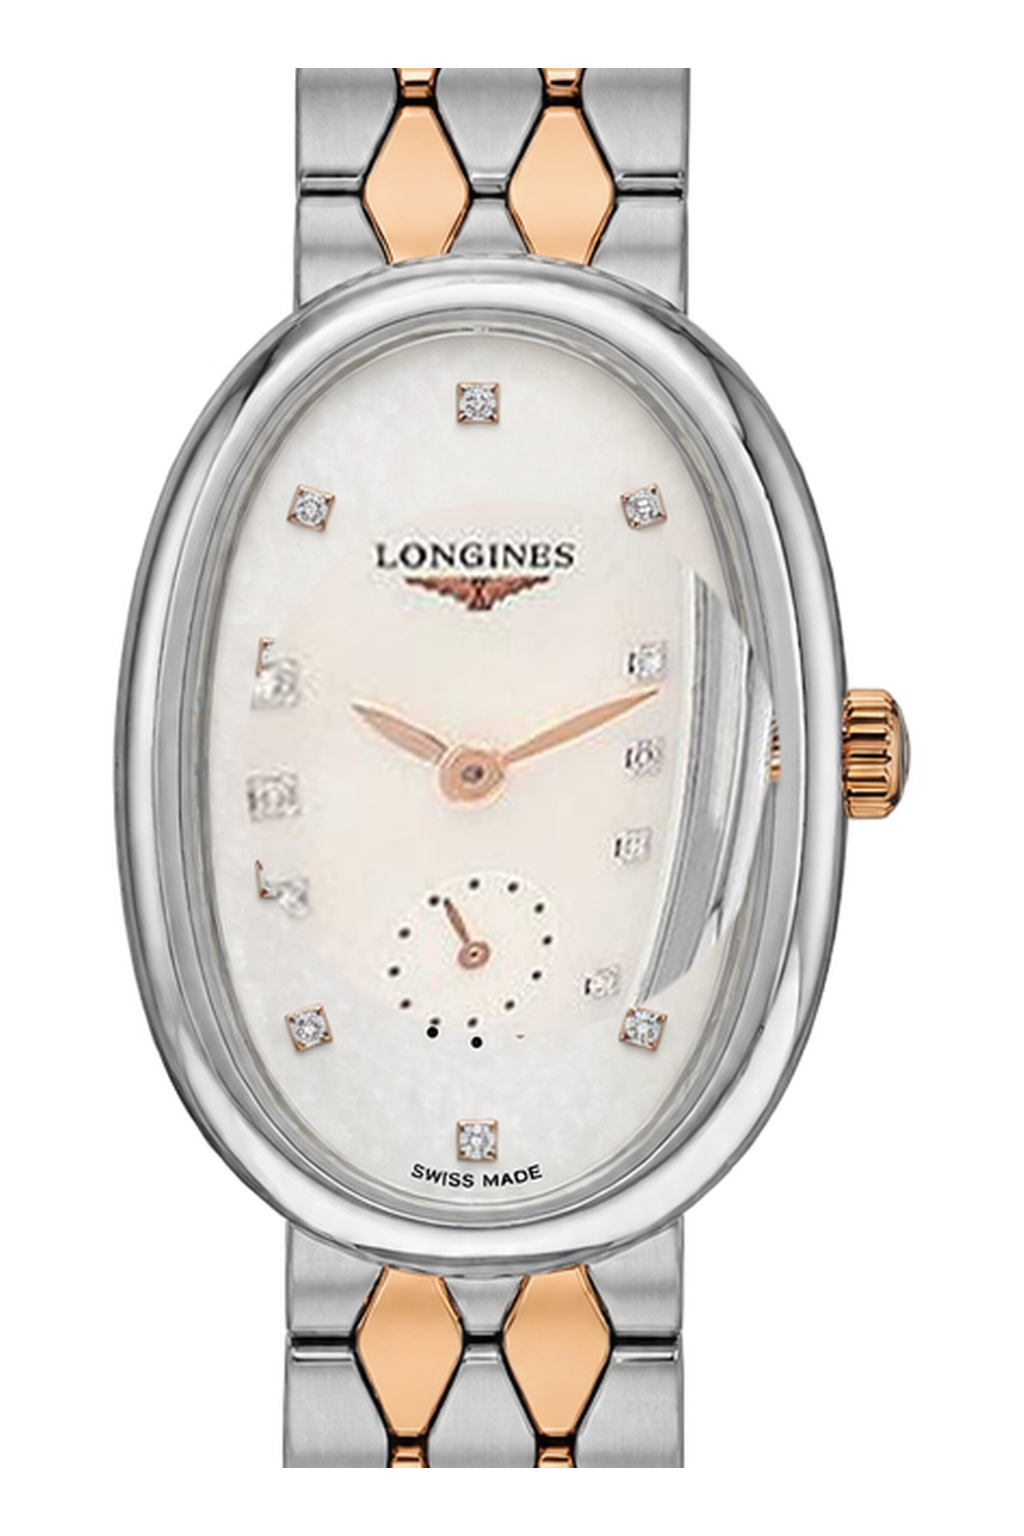
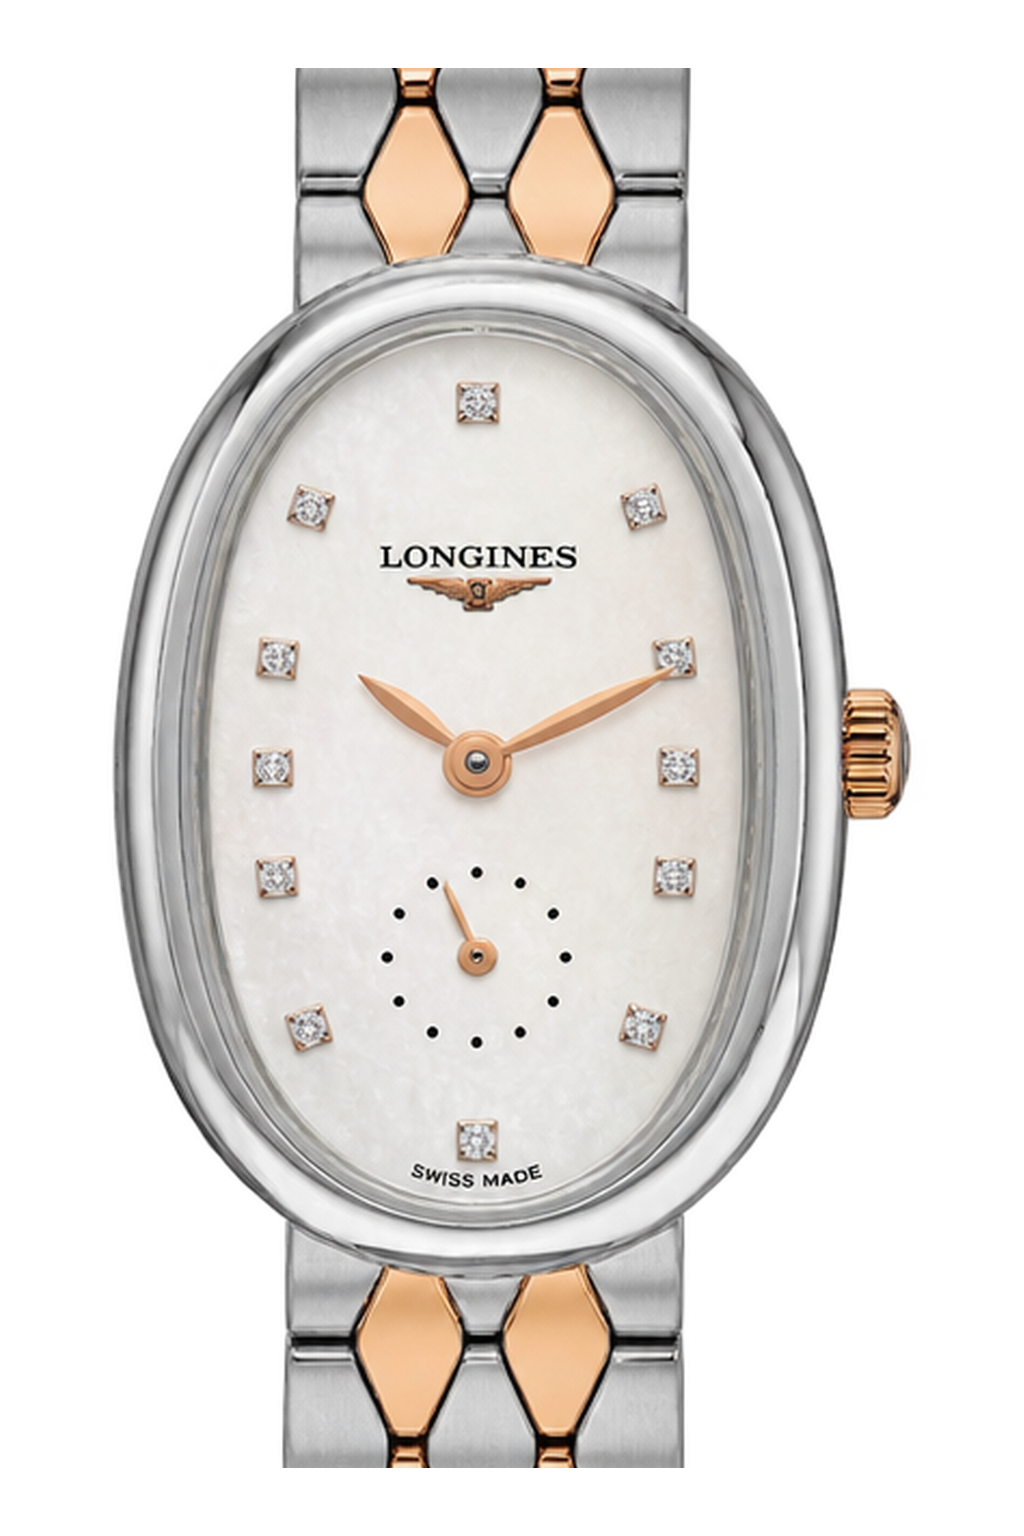
Correct seven missed watch render artifacts

diff --git a/scripts/package-followup-nine.py b/scripts/package-followup-nine.py
@@ -1,0 +1,128 @@
+#!/usr/bin/env python3
+"""Build the seven-fix plus two-omission supplemental delivery."""
+
+from __future__ import annotations
+
+import argparse
+import csv
+import hashlib
+import importlib.util
+import json
+import zipfile
+from pathlib import Path
+
+from PIL import Image
+
+
+CORRECTED = ["W1426", "W1348", "WL83", "W1311", "W1277", "W1276", "CRH11411115"]
+RESTORED = ["WWN301.PB.131.RX", "WWNH24614330"]
+
+
+def sha256(path: Path) -> str:
+    digest = hashlib.sha256()
+    with path.open("rb") as handle:
+        while chunk := handle.read(1024 * 1024):
+            digest.update(chunk)
+    return digest.hexdigest()
+
+
+def load_finalizer(project_root: Path):
+    script = project_root / "scripts" / "finalize-higgsfield-watch-renders.py"
+    spec = importlib.util.spec_from_file_location("watch_finalizer", script)
+    if spec is None or spec.loader is None:
+        raise RuntimeError(f"cannot load {script}")
+    module = importlib.util.module_from_spec(spec)
+    spec.loader.exec_module(module)
+    return module
+
+
+def main() -> None:
+    parser = argparse.ArgumentParser()
+    parser.add_argument("--project-root", type=Path, required=True)
+    parser.add_argument("--output", type=Path, required=True)
+    parser.add_argument("--report", type=Path, required=True)
+    parser.add_argument("--comparisons", type=Path, required=True)
+    args = parser.parse_args()
+
+    finalizer = load_finalizer(args.project_root)
+    watches = args.project_root / "watches-only"
+    args.output.mkdir(parents=True, exist_ok=True)
+    contact_root = args.output / "GemBreak-followup-9-black-contact-sheets"
+    rows: list[dict[str, object]] = []
+    for sku in CORRECTED + RESTORED:
+        path = watches / f"{sku}.png"
+        if not path.is_file():
+            raise SystemExit(f"missing {path}")
+        with Image.open(path) as opened:
+            image = opened.convert("RGBA")
+            size = opened.size
+            mode = opened.mode
+        metrics = finalizer.alpha_metrics(image)
+        chunks = finalizer.png_chunks(path)
+        extra_chunks = sorted(set(chunks) - finalizer.CORE_CHUNKS)
+        technical = (
+            size == finalizer.CANVAS
+            and mode == "RGBA"
+            and not extra_chunks
+            and image.getchannel("A").getextrema()[0] == 0
+            and 0.70 <= metrics["caseW"] <= 0.90
+            and 0.78 <= metrics["bboxH"] <= 0.97
+        )
+        if not technical:
+            raise SystemExit(f"{sku}: supplemental technical validation failed")
+        rows.append(
+            {
+                "sku": sku,
+                "filename": f"{sku}.png",
+                "disposition": "corrected-registration-artifact" if sku in CORRECTED else "restored-delivery-omission",
+                "caseW": metrics["caseW"],
+                "bboxH": metrics["bboxH"],
+                "cxRatio": metrics["cxRatio"],
+                "cyRatio": metrics["cyRatio"],
+                "canvas": f"{size[0]}x{size[1]}",
+                "color_mode": mode,
+                "extra_chunks": "|".join(extra_chunks),
+                "pass_technical_geometry": technical,
+                "visual_review": "PASS",
+                "sha256": sha256(path),
+            }
+        )
+
+    finalizer.contact_sheets(rows, watches, contact_root)
+    manifest = args.output / "GemBreak-followup-9-manifest.csv"
+    fields = [
+        "sku", "filename", "disposition", "caseW", "bboxH", "cxRatio", "cyRatio",
+        "canvas", "color_mode", "extra_chunks", "pass_technical_geometry",
+        "visual_review", "sha256",
+    ]
+    with manifest.open("w", newline="") as handle:
+        writer = csv.DictWriter(handle, fieldnames=fields)
+        writer.writeheader()
+        writer.writerows(rows)
+
+    archive = args.output / "GemBreak-followup-9-2026-09-11.zip"
+    with zipfile.ZipFile(archive, "w", compression=zipfile.ZIP_DEFLATED, compresslevel=6) as bundle:
+        for row in rows:
+            bundle.write(watches / str(row["filename"]), f"watches-only/{row['filename']}")
+        bundle.write(manifest, manifest.name)
+        bundle.write(args.report, f"QA/{args.report.name}")
+        for sheet in sorted(contact_root.glob("*.jpg")):
+            bundle.write(sheet, f"QA/black-background/{sheet.name}")
+        for sheet in sorted(args.comparisons.glob("*.jpg")):
+            bundle.write(sheet, f"QA/before-after-seven/{sheet.name}")
+    result = {
+        "archive": archive.name,
+        "image_count": len(rows),
+        "corrected_count": len(CORRECTED),
+        "restored_omission_count": len(RESTORED),
+        "sha256": sha256(archive),
+        "bytes": archive.stat().st_size,
+    }
+    (args.output / "GemBreak-followup-9-summary.json").write_text(
+        json.dumps(result, indent=2, sort_keys=True) + "\n"
+    )
+    print(json.dumps(result, indent=2, sort_keys=True))
+
+
+if __name__ == "__main__":
+    main()

diff --git a/audit/uniform-v2-2026-09-11/FOLLOWUP_9_REPORT.md b/audit/uniform-v2-2026-09-11/FOLLOWUP_9_REPORT.md
@@ -1,0 +1,39 @@
+# Nine-SKU follow-up
+
+Date: 2026-09-11
+
+## Seven corrected files
+
+- W1426
+- W1348
+- WL83
+- W1311
+- W1277
+- W1276
+- CRH11411115
+
+Each of these seven contained the same false-positive dial-registration warp:
+a large metallic fan or case extrusion on the right side. Their clean original
+Higgsfield renders were individually inspected, normalized to the established
+1024x1536 transparent catalog format, reviewed on black, and installed without
+the faulty source-dial graft. No other approved render changed content in this
+follow-up.
+
+## Two delivery omissions restored
+
+- WWN301.PB.131.RX — corrected Hublot Big Bang with intact `HUBLOT` dial text.
+- WWNH24614330 — corrected Hamilton Ventura Elvis80 in the compact catalog crop,
+  without the full unrolled strap.
+
+These two repository files were already correct and were not re-rendered or
+modified. They are included in the nine-file supplemental delivery because they
+were outside the original 520-image ZIP manifest.
+
+## Verification
+
+- Seven corrected images: black-background visual pass and technical sanity
+  pass.
+- Two restored delivery files: black-background visual pass.
+- Protected inventory: 1,936 files verified byte-for-byte unchanged.
+- Follow-up repository image diff staged for this correction: exactly seven
+  watch paths.

diff --git a/audit/uniform-v2-2026-09-11/RERENDER_520_REPORT.md b/audit/uniform-v2-2026-09-11/RERENDER_520_REPORT.md
@@ -23,7 +23,7 @@ Each approved image was reviewed on black for product identity, dead-on front
 orientation, correct compact bracelet or strap presentation, transparency,
 visible watermarking, loose fastening hardware, opened strap tails, and obvious
 generation artifacts. Source-dial registration was used where it was visually
-safe; 9 registration artifacts were replaced with the clean Higgsfield raw
+safe; 16 registration artifacts were replaced with the clean Higgsfield raw
 render, and 23 images received targeted Higgsfield visual retries.
 
 Four visually acceptable images have a `bboxH-low` numerical warning. The
